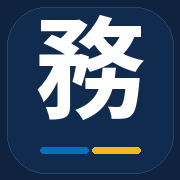
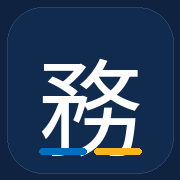
Add files via upload
station-assistant-mobile-github-v5.17.0

diff --git a/index.html b/index.html
@@ -11,8 +11,8 @@
 <link rel="manifest" href="./manifest.webmanifest">
 <link rel="apple-touch-icon" href="./icons/icon-180.png">
 <title>站務工作助手｜手機離線版</title>
-<script src="./vendor/pdf.min.js?v=5.16.0"></script>
-<script src="./vendor/xlsx.full.min.js?v=5.16.0"></script>
+<script src="./vendor/pdf.min.js?v=5.17.0"></script>
+<script src="./vendor/xlsx.full.min.js?v=5.17.0"></script>
 <style>
   :root{
     --bg:#f1f4f8; --card:#ffffff; --border:#dce3ec; --border-strong:#bcc8d7;
@@ -453,7 +453,7 @@
   }
   @media (max-width:520px){.procedure-card-grid{grid-template-columns:1fr 1fr;}}
 
-  /* v5.16.0 mobile shell: real-device full-screen PWA, preserve iPhone safe areas */
+  /* v5.17.0 mobile shell: real-device full-screen PWA, preserve iPhone safe areas */
   @media (max-width:899px){
     html,body{width:100%;height:100%;overflow:hidden;overscroll-behavior:none;}
     body{display:block!important;margin:0!important;padding:0!important;background:var(--bg)!important;min-height:100vh!important;}
@@ -478,7 +478,7 @@
   .event-participant-list{display:grid;gap:0}.event-person-card{display:grid!important;grid-template-columns:minmax(86px,130px) minmax(0,1fr);align-items:start!important;gap:10px!important;padding:10px 4px!important;border:0!important;border-bottom:.5px solid var(--border)!important;border-radius:0!important}.event-person-card:last-child{border-bottom:0!important}.event-person-detail{display:flex;gap:10px;flex-wrap:wrap;min-width:0}.event-person-detail span{white-space:normal!important;overflow:visible!important;text-overflow:clip!important}.event-person-location{color:var(--text-muted)!important}.event-person-edit-title{display:none;font-weight:750;color:var(--accent-text)}.event-more{display:none}.modal-close-btn{border:0;background:none;font-size:18px;min-width:44px;min-height:44px}
 
 
-  /* v5.16.0 mobile UX */
+  /* v5.17.0 mobile UX */
   @media(max-width:899px){
     .modal-overlay{overflow:hidden!important}.modal-sheet{max-width:100%!important;overflow:hidden!important}.modal-body{overflow-x:hidden!important;max-width:100%!important;box-sizing:border-box!important}
     .pdf-reader-shell .modal-header{padding-top:calc(10px + env(safe-area-inset-top))!important;padding-left:max(14px,env(safe-area-inset-left))!important;padding-right:max(10px,env(safe-area-inset-right))!important;min-height:calc(54px + env(safe-area-inset-top))!important}.pdf-reader-shell .modal-header>span{min-width:0;white-space:nowrap;overflow:hidden;text-overflow:ellipsis;font-size:13px!important}.pdf-reader-shell #sop-pdf-close{min-width:44px!important;min-height:44px!important;padding:0!important;margin-left:6px!important;display:grid!important;place-items:center!important}
@@ -516,6 +516,33 @@
   .desktop-search-status,.search-page-list,.search-page-group,.search-page-hits{width:100%;max-width:100%}
   .search-page-group{margin-left:0;margin-right:0}
 
+
+  /* v5.17.0 iPhone 全頁面版面校正：safe-area 只計算一次，底部導覽不再漂浮或遮住內容 */
+  @media(max-width:899px){
+    :root{--mobile-nav-h:68px;--mobile-top-h:56px;}
+    html,body{width:100%;height:100%;height:100dvh;overflow:hidden!important;}
+    body{min-height:0!important;height:100dvh!important;padding:0!important;}
+    #phone{position:fixed!important;inset:0!important;width:100%!important;height:100dvh!important;min-height:0!important;display:grid!important;grid-template-rows:calc(var(--mobile-top-h) + env(safe-area-inset-top)) minmax(0,1fr) calc(var(--mobile-nav-h) + env(safe-area-inset-bottom))!important;grid-template-columns:1fr!important;overflow:hidden!important;}
+    #topbar{position:relative!important;grid-row:1!important;height:auto!important;min-height:0!important;padding:max(env(safe-area-inset-top),12px) max(16px,env(safe-area-inset-right)) 0 max(16px,env(safe-area-inset-left))!important;display:flex!important;align-items:center!important;z-index:10!important;}
+    #topbar h1{font-size:17px!important;line-height:1.25!important;}
+    #content{grid-row:2!important;min-height:0!important;overflow-y:auto!important;padding:14px max(14px,env(safe-area-inset-right)) 18px max(14px,env(safe-area-inset-left))!important;-webkit-overflow-scrolling:touch!important;}
+    #tabbar{position:relative!important;grid-row:3!important;left:auto!important;right:auto!important;bottom:auto!important;height:auto!important;min-height:0!important;padding:0 0 env(safe-area-inset-bottom) 0!important;z-index:18!important;align-items:stretch!important;}
+    .tab-btn{min-height:var(--mobile-nav-h)!important;padding:5px 1px 4px!important;}
+    /* modal 永遠蓋在底部導覽列上方；bottom sheet 可完整捲到最後一項 */
+    .modal-overlay{position:fixed!important;inset:0!important;z-index:60!important;padding:0!important;align-items:flex-end!important;}
+    .modal-sheet{max-height:calc(100dvh - max(env(safe-area-inset-top),12px))!important;}
+    .modal-header{flex-shrink:0!important;padding:10px max(10px,env(safe-area-inset-right)) 10px max(16px,env(safe-area-inset-left))!important;min-height:58px!important;}
+    .modal-header button[id$="close"],.modal-header .modal-close-btn,.modal-header button[aria-label="關閉"]{width:44px!important;height:44px!important;min-width:44px!important;min-height:44px!important;padding:0!important;margin-left:8px!important;display:grid!important;place-items:center!important;font-size:25px!important;line-height:1!important;border-radius:12px!important;}
+    .modal-body{min-height:0!important;padding-bottom:calc(24px + env(safe-area-inset-bottom))!important;overscroll-behavior:contain!important;}
+    #dm-overlay .modal-sheet{max-height:calc(100dvh - max(env(safe-area-inset-top),12px) - 10px)!important;}
+    #dm-overlay .modal-body{padding-bottom:calc(32px + env(safe-area-inset-bottom))!important;}
+    /* 全螢幕閱讀器／事件編輯器：頂端與狀態列分離，取消舊版重複 52px safe-area */
+    .pdf-reader-shell,.event-editor-sheet{height:100%!important;max-height:100%!important;border-radius:0!important;}
+    .pdf-reader-shell>.modal-header,.event-editor-sheet>.modal-header{padding:max(env(safe-area-inset-top),12px) max(10px,env(safe-area-inset-right)) 8px max(16px,env(safe-area-inset-left))!important;min-height:calc(56px + max(env(safe-area-inset-top),12px))!important;align-items:flex-end!important;}
+    .pdf-reader-shell>.modal-header button,.event-editor-sheet>.modal-header button{width:44px!important;height:44px!important;min-width:44px!important;min-height:44px!important;font-size:25px!important;margin:0 0 1px 8px!important;padding:0!important;display:grid!important;place-items:center!important;}
+    .event-editor-sheet>.modal-body{padding-bottom:calc(28px + env(safe-area-inset-bottom))!important;}
+  }
+
 </style>
 </head>
 <body>
@@ -532,18 +559,18 @@
     <button class="tab-btn" data-tab="personnel"><span class="icon">♙</span>事件/人員</button>
     <button class="tab-btn" data-tab="library"><span class="icon">▤</span>資料管理</button>
     <button class="tab-btn" data-tab="settings"><span class="icon">⚙</span>設定</button>
-    <div class="desktop-version">手機 PWA 測試版 v5.16.0 · 資料僅存本機</div>
+    <div class="desktop-version">手機 PWA 測試版 v5.17.0 · 資料僅存本機</div>
   </div>
 </div>
 
 <script>
-/* v5.16.0 2026-09-09：
+/* v5.17.0 2026-09-09：
    1) 修正文件名稱命中會把整份文件所有段落都算命中的問題；正文命中頁／段落只計實際符合；
    2) 搜尋段落點入 PDF 前以該段正文重新驗證實體 PDF 頁，避免搜尋索引與原始 PDF 定位錯位；
    3) 常用程序待確認閱讀器新增「確認頁碼正確」，確認後清除提醒並保存新版正文快照；
    4) 事件參與人員解析支援「小班＋值班站長／值班站務專員」等班別職稱；
    5) 維持修訂／異動頁排除、文字模式階層、表格與 SOP 安全更新規則。 */
-pdfjsLib.GlobalWorkerOptions.workerSrc = './vendor/pdf.worker.min.js?v=5.14.0';
+pdfjsLib.GlobalWorkerOptions.workerSrc = './vendor/pdf.worker.min.js?v=5.17.0';
 
 /* ---------- IndexedDB layer ---------- */
 const DB_NAME = 'stationAssistantDB';
@@ -1695,9 +1722,21 @@ function portableProcedureV3(f){
   const copy={...f,portableId:f.id,sourceDocumentKey:doc?transferDocumentKey(doc,pdf):'',sourceNoticeKey:notice?transferNoticeKey(notice):''};
   delete copy.id;delete copy.docId;delete copy.noticeId;return copy;
 }
+function transferEventKey(e){
+  const explicit=String(e.transferId||e.uuid||e.eventId||'').trim();
+  if(explicit)return `id:${explicit}`;
+  return ['event',e.date||'',e.lineCode||'',e.station||'',transferText(e.title||e.subject||''),transferText(e.rawText||'')].join('|');
+}
+function transferPersonnelKey(p){
+  const explicit=String(p.transferId||p.uuid||p.personId||'').trim();
+  if(explicit)return `id:${explicit}`;
+  return ['person',transferText(p.name||''),transferText(p.role||p.position||''),transferText(p.station||''),transferText(p.lineCode||'')].join('|');
+}
+function portableWorkRecord(row){const copy={...row};delete copy.id;return copy;}
 async function exportProcedures(){
   const procedures=sortedProcedures();
-  if(!procedures.length&&!cache.announcements.length)return alert('目前沒有常用程序或通告可匯出。');
+  const events=cache.personnel.filter(r=>r.recordType==='event'),personnel=cache.personnel.filter(r=>r.recordType!=='event');
+  if(!procedures.length&&!cache.announcements.length&&!events.length&&!personnel.length)return alert('目前沒有工作資料可匯出。');
   const docIds=new Set(procedures.filter(p=>p.type==='sop').map(p=>Number(p.docId)));
   cache.announcements.forEach(n=>(n.relations||[]).forEach(r=>docIds.add(Number(r.docId))));
   const documents=cache.sopDocs.filter(d=>docIds.has(Number(d.id))).map(doc=>{const pdf=cache.pdfFiles.find(p=>p.id===Number(doc.pdfFileId));return {portableId:doc.id,documentKey:transferDocumentKey(doc,pdf),documentName:resolvedDocName(doc),pdfFileName:pdf?.fileName||'',pdfFingerprint:transferBufferFingerprint(pdf?.data)};});
@@ -1706,26 +1745,26 @@ async function exportProcedures(){
   const announcements=cache.announcements.map(n=>{const copy={...n,portableId:n.id,noticeKey:transferNoticeKey(n),pdfData:n.pdfData?bufToBase64(n.pdfData):null,
     relationDocumentKeys:(n.relations||[]).map(r=>{const d=cache.sopDocs.find(x=>x.id===Number(r.docId)),p=d?cache.pdfFiles.find(x=>x.id===Number(d.pdfFileId)):null;return d?{documentKey:transferDocumentKey(d,p),startPage:r.startPage||null,endPage:r.endPage||r.startPage||null}:null;}).filter(Boolean),
     procedurePortableIds:(n.procedureIds||[]).map(id=>Number(id))};delete copy.id;delete copy.relations;delete copy.procedureIds;return copy;});
-  downloadJson({format:'station-assistant-transfer',version:4,mode:'lightweight',exportedAt:new Date().toISOString(),source:'pc',documents,procedures:procedures.map(portableProcedureV3),annotations,announcements},`常用程序與通告輕量移轉-${new Date().toISOString().slice(0,10)}.json`);
+  downloadJson({format:'station-assistant-transfer',version:5,mode:'lightweight',exportedAt:new Date().toISOString(),source:'mobile',documents,procedures:procedures.map(portableProcedureV3),annotations,announcements,events:events.map(portableWorkRecord),personnel:personnel.map(portableWorkRecord)},`工作資料移轉-${new Date().toISOString().slice(0,10)}.json`);
 }
-async function transferSnapshot(){const out={};for(const name of ['pdfFiles','sopDocs','favorites','annotations','announcements'])out[name]=await dbGetAll(name);return out;}
+async function transferSnapshot(){const out={};for(const name of ['pdfFiles','sopDocs','favorites','annotations','announcements','personnel'])out[name]=await dbGetAll(name);return out;}
 async function restoreTransferSnapshot(snapshot){for(const name of Object.keys(snapshot)){await dbClear(name);for(const row of snapshot[name])await dbAdd(name,row);}await reloadCache();}
 function chooseImportMode(fileData,stats){
   return new Promise(resolve=>{const overlay=document.createElement('div');overlay.className='modal-overlay';overlay.style.zIndex='95';
-    overlay.innerHTML=`<div class="modal-sheet" style="height:auto;max-width:540px"><div class="modal-header"><b>匯入常用程序與通告</b><button id="pi-close" style="border:0;background:none;font-size:18px">✕</button></div><div class="modal-body"><p style="line-height:1.75;margin-top:0">常用程序 <b>${stats.procedures}</b> 筆｜SOP 識別 <b>${stats.documents}</b> 份｜通告 <b>${stats.notices}</b> 筆｜通告 PDF <b>${stats.noticePdfs}</b> 份｜標註 <b>${stats.annotations}</b> 筆｜關聯 <b>${stats.relations}</b> 組</p><div class="import-report">輕量移轉不包含 SOP PDF 與正文。${stats.missingDocs.length?`<br><b style="color:var(--danger)">找不到相同 SOP：${stats.missingDocs.map(escapeHtml).join('、')}</b><br>相關常用程序、標註與 SOP 關聯將安全略過。`:'<br>所有 SOP 均可與本機文件配對。'}<br>匯入前會建立暫存快照；如發生錯誤，將自動回復。</div><button class="primary" id="pi-merge" style="width:100%;margin:12px 0 9px">合併匯入（建議）</button><button class="secondary" id="pi-replace" style="width:100%;color:var(--danger)">取代移轉資料</button></div></div>`;
+    overlay.innerHTML=`<div class="modal-sheet" style="height:auto;max-width:540px"><div class="modal-header"><b>匯入工作資料</b><button id="pi-close" style="border:0;background:none;font-size:18px">✕</button></div><div class="modal-body"><p style="line-height:1.75;margin-top:0">常用程序 <b>${stats.procedures}</b> 筆｜SOP 識別 <b>${stats.documents}</b> 份｜通告 <b>${stats.notices}</b> 筆｜通告 PDF <b>${stats.noticePdfs}</b> 份｜標註 <b>${stats.annotations}</b> 筆｜關聯 <b>${stats.relations}</b> 組｜事件 <b>${stats.events||0}</b> 筆｜人員 <b>${stats.personnel||0}</b> 筆</p><div class="import-report">輕量移轉不包含 SOP PDF 與正文。${stats.missingDocs.length?`<br><b style="color:var(--danger)">找不到相同 SOP：${stats.missingDocs.map(escapeHtml).join('、')}</b><br>相關常用程序、標註與 SOP 關聯將安全略過。`:'<br>所有 SOP 均可與本機文件配對。'}<br>匯入前會建立暫存快照；如發生錯誤，將自動回復。</div><button class="primary" id="pi-merge" style="width:100%;margin:12px 0 9px">合併匯入（建議）</button><button class="secondary" id="pi-replace" style="width:100%;color:var(--danger)">取代移轉資料</button></div></div>`;
     (document.getElementById('phone')||document.body).appendChild(overlay);overlay.querySelector('#pi-close').onclick=()=>{overlay.remove();resolve(null)};overlay.querySelector('#pi-merge').onclick=()=>{overlay.remove();resolve('merge')};overlay.querySelector('#pi-replace').onclick=()=>{overlay.remove();resolve('replace')};});
 }
 async function importProceduresFile(file){
   let data;try{data=JSON.parse(await file.text())}catch{return alert('無法讀取移轉檔，請選擇由本程式匯出的 JSON 檔。')}
   if(data?.format==='station-assistant-procedures')return importProceduresFileLegacy(file);
-  if(data?.format!=='station-assistant-transfer'||![3,4].includes(Number(data.version))||!Array.isArray(data.procedures)||!Array.isArray(data.announcements))return alert('這不是相容的「常用程序與通告移轉」檔。');
+  if(data?.format!=='station-assistant-transfer'||![3,4,5].includes(Number(data.version))||!Array.isArray(data.procedures)||!Array.isArray(data.announcements))return alert('這不是相容的「工作資料移轉」檔。');
   const localDocumentKeys=new Set(cache.sopDocs.map(d=>{const p=cache.pdfFiles.find(x=>x.id===Number(d.pdfFileId));return transferDocumentKey(d,p);}));
   const missingDocs=(data.documents||[]).filter(d=>!localDocumentKeys.has(d.documentKey)&&!(Number(data.version)===3&&(data.pdfFiles||[]).some(p=>Number(p.portableId)===Number(d.portablePdfId)))).map(d=>d.documentName||d.name||d.pdfFileName||'未命名 SOP');
-  const stats={procedures:data.procedures.length,documents:(data.documents||[]).length,notices:data.announcements.length,noticePdfs:data.announcements.filter(n=>n.pdfData).length,annotations:(data.annotations||[]).length,relations:data.announcements.reduce((s,n)=>s+(n.relationDocumentKeys||[]).length+(n.procedurePortableIds||[]).length,0),missingDocs};
+  const stats={procedures:data.procedures.length,documents:(data.documents||[]).length,notices:data.announcements.length,noticePdfs:data.announcements.filter(n=>n.pdfData).length,annotations:(data.annotations||[]).length,relations:data.announcements.reduce((s,n)=>s+(n.relationDocumentKeys||[]).length+(n.procedurePortableIds||[]).length,0),events:(data.events||[]).length,personnel:(data.personnel||[]).length,missingDocs};
   const mode=await chooseImportMode(data,stats);if(!mode)return;const snapshot=await transferSnapshot();
-  const result={pdfAdded:0,docAdded:0,procedureAdded:0,procedureUpdated:0,annotationAdded:0,noticeAdded:0,noticeUpdated:0,unmatched:0};
+  const result={pdfAdded:0,docAdded:0,procedureAdded:0,procedureUpdated:0,annotationAdded:0,noticeAdded:0,noticeUpdated:0,eventAdded:0,eventUpdated:0,personnelAdded:0,personnelUpdated:0,unmatched:0};
   try{
-    if(mode==='replace'){await dbClear('favorites');await dbClear('annotations');await dbClear('announcements');await reloadCache();}
+    if(mode==='replace'){await dbClear('favorites');await dbClear('annotations');await dbClear('announcements');await dbClear('personnel');await reloadCache();}
     const pdfIdMap=new Map();
     for(const source of data.pdfFiles||[]){const sourceData=base64ToBuf(source.data);let current=cache.pdfFiles.find(p=>transferText(p.fileName)===transferText(source.fileName)&&transferBufferFingerprint(p.data)===transferBufferFingerprint(sourceData));if(!current){const copy={...source,data:sourceData};delete copy.portableId;current={...copy,id:await dbAdd('pdfFiles',copy)};cache.pdfFiles.push(current);result.pdfAdded++;}pdfIdMap.set(Number(source.portableId),current.id);}
     const documentIdMap=new Map();
@@ -1737,7 +1776,11 @@ async function importProceduresFile(file){
     const noticeIdMap=new Map(),existingNotices=new Map(cache.announcements.map(n=>[transferNoticeKey(n),n]));
     for(const source of data.announcements){const key=source.noticeKey||transferNoticeKey(source),copy={...source,pdfData:source.pdfData?base64ToBuf(source.pdfData):null};delete copy.portableId;delete copy.noticeKey;delete copy.relationDocumentKeys;delete copy.procedurePortableIds;copy.relations=(source.relationDocumentKeys||[]).map(r=>documentIdMap.has(r.documentKey)?{docId:documentIdMap.get(r.documentKey),startPage:r.startPage||null,endPage:r.endPage||r.startPage||null}:null).filter(Boolean);copy.procedureIds=(source.procedurePortableIds||[]).map(id=>procedureIdMap.get(Number(id))).filter(Boolean);let current=existingNotices.get(key);if(current){Object.assign(current,copy,{id:current.id,updatedAt:new Date().toISOString()});await dbPut('announcements',current);result.noticeUpdated++;}else{current={...copy,id:await dbAdd('announcements',copy)};cache.announcements.push(current);existingNotices.set(key,current);result.noticeAdded++;}noticeIdMap.set(Number(source.portableId),current.id);}
     for(const source of data.procedures.filter(p=>p.type==='notice')){const favoriteId=procedureIdMap.get(Number(source.portableId)),noticeId=noticeIdMap.get(Number((data.announcements.find(n=>(n.noticeKey||transferNoticeKey(n))===source.sourceNoticeKey)||{}).portableId));if(favoriteId&&noticeId){const f=cache.favorites.find(x=>x.id===favoriteId);f.noticeId=noticeId;await dbPut('favorites',f);}}
-    await reloadCache();render();alert(`匯入完成：常用程序新增 ${result.procedureAdded}、沿用 ${result.procedureUpdated}；標註新增 ${result.annotationAdded}；通告新增 ${result.noticeAdded}、更新 ${result.noticeUpdated}；SOP PDF 新增 ${result.pdfAdded}。${result.unmatched?`\n未能配對 ${result.unmatched} 項，已安全略過。`:''}`);
+    const existingEvents=new Map(cache.personnel.filter(r=>r.recordType==='event').map(r=>[transferEventKey(r),r]));
+    for(const source of data.events||[]){const copy={...source,recordType:'event'},key=transferEventKey(copy),current=existingEvents.get(key);if(current){Object.assign(current,copy,{id:current.id});await dbPut('personnel',current);result.eventUpdated++;}else{copy.id=await dbAdd('personnel',copy);cache.personnel.push(copy);existingEvents.set(key,copy);result.eventAdded++;}}
+    const existingPeople=new Map(cache.personnel.filter(r=>r.recordType!=='event').map(r=>[transferPersonnelKey(r),r]));
+    for(const source of data.personnel||[]){const copy={...source},key=transferPersonnelKey(copy),current=existingPeople.get(key);if(current){Object.assign(current,copy,{id:current.id});await dbPut('personnel',current);result.personnelUpdated++;}else{copy.id=await dbAdd('personnel',copy);cache.personnel.push(copy);existingPeople.set(key,copy);result.personnelAdded++;}}
+    await reloadCache();render();alert(`匯入完成：常用程序新增 ${result.procedureAdded}、沿用 ${result.procedureUpdated}；標註新增 ${result.annotationAdded}；通告新增 ${result.noticeAdded}、更新 ${result.noticeUpdated}；SOP PDF 新增 ${result.pdfAdded}；事件新增 ${result.eventAdded}、更新 ${result.eventUpdated}；人員新增 ${result.personnelAdded}、更新 ${result.personnelUpdated}。${result.unmatched?`\n未能配對 ${result.unmatched} 項，已安全略過。`:''}`);
   }catch(error){await restoreTransferSnapshot(snapshot);render();alert(`匯入失敗，已回復匯入前資料。\n${error.message||error}`);}
 }
 let procedureDragEndedAt=0;
@@ -3881,7 +3924,7 @@ function renderSettings(){
       <div class="card settings-card" id="settings-search"><p class="panel-title">搜尋設定</p><p class="panel-note">管理智慧搜尋詞庫、同義詞及查無結果紀錄。</p><span class="badge">${cache.synonymGroups.length} 組詞庫</span></div>
       <div class="card settings-card" id="settings-data"><p class="panel-title">資料與儲存</p><p class="panel-note">完整備份、還原與跨裝置資料移轉。</p><span class="badge">最近備份：${escapeHtml(lastBackup)}</span></div>
       <div class="card settings-card" id="settings-history"><p class="panel-title">搜尋歷史</p><p class="panel-note">目前保留最近 ${getSearchHistory().length} 筆搜尋，可在此清除。</p><button class="secondary" id="settings-clear-history">清除搜尋歷史</button></div>
-      <div class="card settings-card" id="settings-version"><p class="panel-title">版本資訊</p><p class="panel-note">本版本延續手機版 v5.15.0 資料結構，資料維持瀏覽器本機離線。</p><dl class="version-info"><dt>程式版本</dt><dd>v5.16.0 測試版</dd><dt>基準版本</dt><dd>手機版 v5.15.0</dd><dt>更新日期</dt><dd>2026-09-09</dd><dt>資料格式</dt><dd>IndexedDB v4</dd><dt>本次更新</dt><dd>搜尋結果固定依4類SOP既定順序與PDF頁碼排列；移除命中統計與符合層級說明；結果版面基準線統一；搜尋段落進PDF後可定位到該頁條文附近。同步電腦版AND搜尋收斂、PDF乾淨原稿搜尋提示、常用程序三錨點定位與確認即時刷新。</dd></dl></div>
+      <div class="card settings-card" id="settings-version"><p class="panel-title">版本資訊</p><p class="panel-note">本版本延續手機版 v5.16.0 資料結構，資料維持瀏覽器本機離線。</p><dl class="version-info"><dt>程式版本</dt><dd>v5.17.0 測試版</dd><dt>基準版本</dt><dd>手機版 v5.16.0</dd><dt>更新日期</dt><dd>2026-09-09</dd><dt>資料格式</dt><dd>IndexedDB v4</dd><dt>本次更新</dt><dd>全頁面校正 iPhone safe-area、頂部狀態列與底部功能列；所有主要關閉按鈕統一 44×44 觸控區；資料管理視窗不再被功能列遮住；工作資料移轉加入事件與人員；App 圖示「務」改為與「蔵」相近的字型比例與垂直基準。保留 v5.16.0 大型 PDF 低記憶體匯入修正。</dd></dl></div>
     </div>`;
   document.getElementById('settings-search').onclick=openSynonymManager;
   document.getElementById('settings-data').onclick=openDataMgmt;
@@ -3939,12 +3982,12 @@ async function importData(file){
 function openDataMgmt(){
   const html = `<div class="modal-overlay" id="dm-overlay"><div class="modal-sheet" style="height:auto;">
     <div class="modal-header"><span style="font-weight:500;">資料管理</span>
-      <button id="dm-close" style="background:none;border:none;font-size:18px;">✕</button></div>
+      <button id="dm-close" class="modal-close-btn" aria-label="關閉">✕</button></div>
     <div class="modal-body">
-      <p class="tiny-muted" style="margin-top:0;">手機 PWA 測試版 v5.16.0・2026.09.09</p>
-      <p class="muted">匯出資料後可手動傳到另一台裝置匯入；各裝置資料不會自動同步。</p>
-      <button class="primary" id="dm-transfer-export" style="width:100%;margin-bottom:10px;">匯出常用程序與通告</button>
-      <button class="secondary" id="dm-transfer-import" style="width:100%;margin-bottom:18px;">匯入常用程序與通告</button>
+      <p class="tiny-muted" style="margin-top:0;">手機 PWA 測試版 v5.17.0・2026.09.09</p>
+      <p class="muted">「工作資料」包含常用程序、通告、事件與人員，可手動傳到另一台裝置匯入；各裝置資料不會自動同步。</p>
+      <button class="primary" id="dm-transfer-export" style="width:100%;margin-bottom:10px;">匯出工作資料</button>
+      <button class="secondary" id="dm-transfer-import" style="width:100%;margin-bottom:18px;">匯入工作資料</button>
       <input type="file" id="dm-transfer-input" accept="application/json,.json" style="display:none">
       <p class="tiny-muted">裝置復原用</p>
       <button class="secondary" id="dm-export" style="width:100%;margin-bottom:10px;">匯出完整資料備份</button>

diff --git a/sw.js b/sw.js
@@ -1,11 +1,11 @@
-const CACHE_NAME = 'station-assistant-mobile-github-v5.16.0';
+const CACHE_NAME = 'station-assistant-mobile-github-v5.17.0';
 const APP_SHELL = [
   './',
   './index.html',
   './manifest.webmanifest',
-  './vendor/pdf.min.js?v=5.13.0',
-  './vendor/pdf.worker.min.js?v=5.13.0',
-  './vendor/xlsx.full.min.js?v=5.13.0',
+  './vendor/pdf.min.js?v=5.17.0',
+  './vendor/pdf.worker.min.js?v=5.17.0',
+  './vendor/xlsx.full.min.js?v=5.17.0',
   './icons/icon-180.png',
   './icons/icon-192.png',
   './icons/icon-512.png'

diff --git a/CHANGELOG.md b/CHANGELOG.md
@@ -1,3 +1,13 @@
+## v5.17.0｜2026-09-09
+- 全頁面重新校正 iPhone standalone PWA 的 top/bottom safe-area：頂部標題不再與狀態列重疊，底部五項功能列貼回實際底部安全區。
+- 主內容與底部功能列改為同一個 100dvh Grid 版面，不再用 absolute 導覽列造成整頁上移與底部大塊空白。
+- Modal 改為 fixed 疊層並高於主功能列；資料管理、匯入確認、事件編輯、PDF 閱讀器等長內容可完整捲到底，不再被底部功能列遮住。
+- 主要 Modal／PDF／事件編輯器右上關閉按鈕統一至少 44×44px 觸控區，X 放大。
+- 「匯出／匯入常用程序與通告」改為「匯出／匯入工作資料」，新增事件與人員；v5 移轉檔可與舊 v3/v4 相容匯入。
+- 工作資料合併匯入時事件／人員以穩定欄位組合鍵判斷：相同資料更新，不同資料新增；取代模式納入事件與人員。
+- App 圖示「務」改用較接近「蔵」的正常字重、縮小並下移到相同視覺基準，保留藍／黃雙線。
+- 保留 v5.16.0 大型 PDF 低記憶體匯入機制；IndexedDB 維持 v4。
+
 ## v5.16.0｜2026-09-09
 - 手機大型 SOP PDF 匯入改為低記憶體模式，針對解析到後段約 80% 時 Safari/PWA 可能被系統終止的情況降載。
 - 匯入階段不再逐頁分析表格/operator list；表格結構延後到第一次開啟該文件文字模式時建立。
